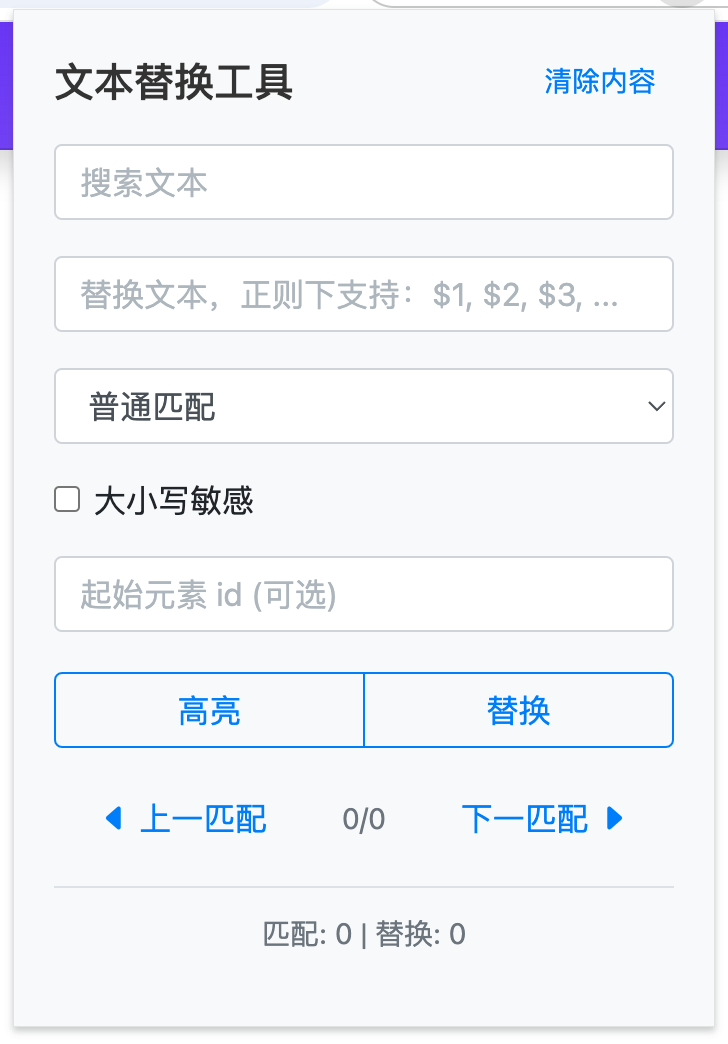
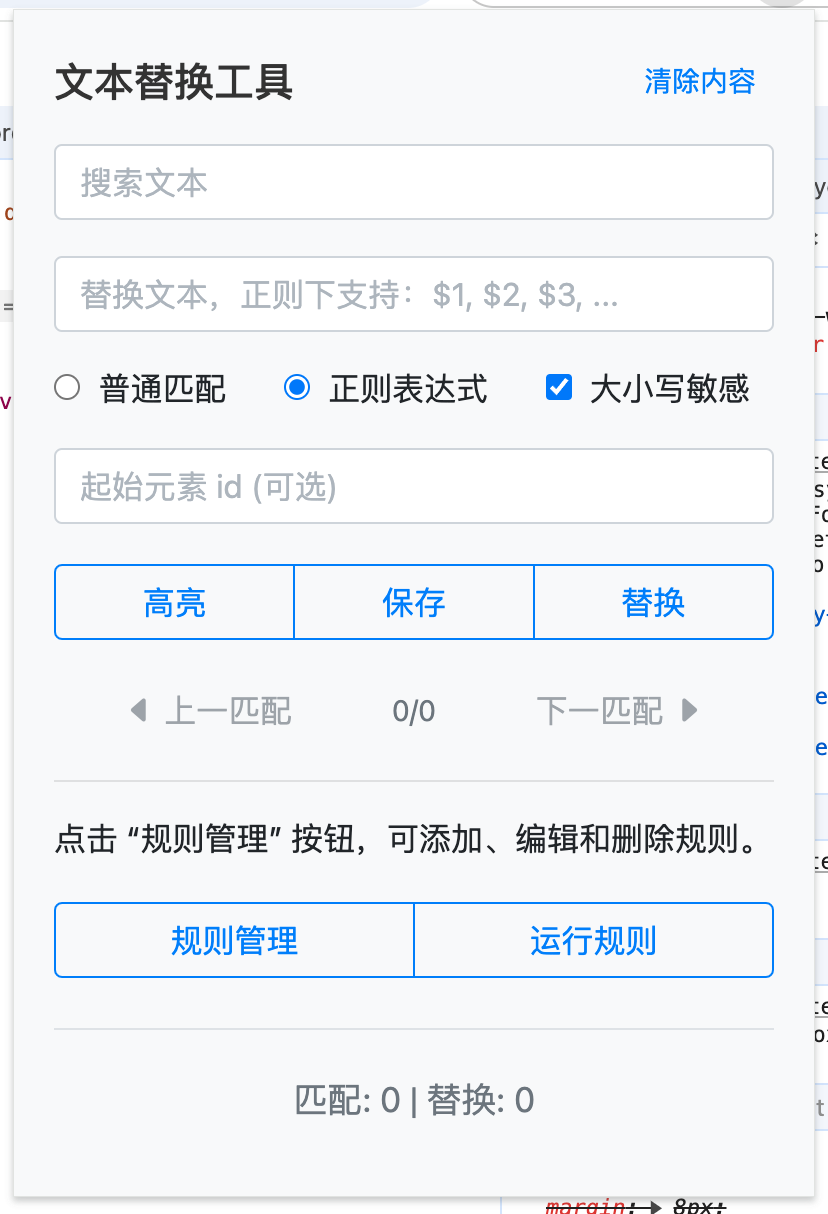
rule management interface is under development

diff --git a/popup/rules.html b/popup/rules.html
@@ -1,0 +1,70 @@
+<!DOCTYPE html>
+<html lang="zh-CN">
+    <head>
+        <meta charset="UTF-8" />
+        <meta name="viewport" content="width=device-width, initial-scale=1, shrink-to-fit=no" />
+        <title>文本替换扩展</title>
+        <link rel="stylesheet" href="bootstrap.min.css" />
+        <link rel="stylesheet" href="bootstrap-icons.min.css" />
+        <link rel="stylesheet" href="rules.css" />
+    </head>
+    <body>
+        <div class="container-fluid p-0">
+            <div class="py-5 text-center">
+                <img class="d-block mx-auto mb-4" src="/icons/icon128.png" alt="" width="128" height="128" />
+                <h2>文本替换规则管理</h2>
+                <div class="lead text-left">
+                    <p class="description-text">
+                        欢迎使用文本替换规则管理页面。它允许您创建、编辑和管理自定义的文本替换规则，
+                        以便在浏览网页时自动替换文本。无论是提高阅读效率、个性化内容还是纠正错误，都能满足您的需求。
+                    </p>
+                </div>
+            </div>
+            <div class="row" id="rulesOperation">
+                <div class="col-6 offset-6 d-flex justify-content-end">
+                    <button type="button" class="btn btn-link" id="clearSelectedRulesButton">
+                        <i class="bi bi-x-circle"></i>
+                        清除规则
+                    </button>
+                    <button type="button" class="btn btn-link" id="deleteSelectedRulesButton">
+                        <i class="bi bi-download"></i>
+                        导出规则
+                    </button>
+                    <button type="button" class="btn btn-link" id="importRulesButton">
+                        <i class="bi bi-upload"></i>
+                        导入规则
+                    </button>
+                </div>
+            </div>
+            <table class="table table-striped">
+                <thead class="thead-dark">
+                    <tr>
+                        <th scope="col" style="width: 4%">
+                            <input type="checkbox" id="selectAllCheckboxes" />
+                        </th>
+                        <th scope="col" style="width: 4%">#</th>
+                        <th scope="col" style="width: 26%">匹配</th>
+                        <th scope="col" style="width: 26%">替换</th>
+                        <th scope="col" style="width: 40%">操作</th>
+                    </tr>
+                </thead>
+                <tbody id="rulesTableBody">
+                    <!-- 动态生成的规则行将插入到这里 -->
+                    <tr>
+                        <td>
+                            <input type="checkbox" class="rule-checkbox" />
+                        </td>
+                        <th scope="row">1</th>
+                        <td>Mark</td>
+                        <td>Otto</td>
+                        <td>@mdo</td>
+                    </tr>
+                </tbody>
+            </table>
+        </div>
+
+        <script src="jquery-3.6.4.min.js"></script>
+        <script src="bootstrap.min.js"></script>
+        <script src="rules.js"></script>
+    </body>
+</html>

diff --git a/popup/popup.js b/popup/popup.js
@@ -5,11 +5,12 @@ const storage = chrome.storage && chrome.storage.local ? chrome.storage.local : 
 document.addEventListener("DOMContentLoaded", () => {
     // 为按钮添加事件监听器
     document.getElementById("highlightButton")?.addEventListener("click", handleHighlight);
-    document.getElementById("replaceButton")?.addEventListener("click", showConfirmModal);
+    document.getElementById("replaceButton")?.addEventListener("click", showReplaceConfirmModal);
     document.getElementById("clearButton")?.addEventListener("click", handleClear);
     document.getElementById("previousButton")?.addEventListener("click", handleNavPrevious);
     document.getElementById("nextButton")?.addEventListener("click", handleNavNext);
     document.getElementById("confirmReplace")?.addEventListener("click", handleConfirmedReplace);
+    document.getElementById("rolesManagementButton")?.addEventListener("click", openRulesManagementPage);
 
     // 初始化时禁用导航按钮并重置导航统计
     updateNavigationButtons(false);
@@ -19,15 +20,48 @@ document.addEventListener("DOMContentLoaded", () => {
     loadSavedContent();
 });
 
-// 添加这个新函数
-function showConfirmModal() {
+// 显示替换确认模态框
+function showReplaceConfirmModal() {
     $("#confirmModal").modal("show");
 }
 
-// 添加这个新函数
+// 处理确认替换，并隐藏模态框
 function handleConfirmedReplace() {
     $("#confirmModal").modal("hide");
     handleReplace();
+}
+
+// 打开规则管理页面
+function openRulesManagementPage() {
+    const rulesManagementPageUrl = chrome.runtime.getURL("popup/rules.html");
+    const tabName = "文本替换规则管理"; // 设置标签页的名称
+
+    // 查询所有标签页
+    chrome.tabs.query({}, function (tabs) {
+        // 查找是否存在匹配的标签页
+        const existingTab = tabs.find(tab => {
+            console.log(tab.url);
+            return tab.url && tab.url === rulesManagementPageUrl;
+        });
+
+        if (existingTab) {
+            // 如果标签页存在，跳转到该标签页
+            chrome.tabs.update(existingTab.id, { active: true });
+            chrome.windows.update(existingTab.windowId, { focused: true });
+        } else {
+            // 如果标签页不存在，创建新标签页
+            chrome.tabs.create({ url: rulesManagementPageUrl }, function (newTab) {
+                // 使用 chrome.tabs.onUpdated 监听器来设置标签页标题
+                function updateTabTitle(tabId, changeInfo, tab) {
+                    if (tabId === newTab.id && changeInfo.status === "complete") {
+                        chrome.tabs.sendMessage(tabId, { action: "setPageTitle", title: tabName });
+                        chrome.tabs.onUpdated.removeListener(updateTabTitle);
+                    }
+                }
+                chrome.tabs.onUpdated.addListener(updateTabTitle);
+            });
+        }
+    });
 }
 
 // 处理高亮功能

diff --git a/popup/popup.html b/popup/popup.html
@@ -86,10 +86,10 @@
                 </div>
             </form>
             <hr />
-            <div>点击 “策略管理” 按钮，可添加、编辑和删除策略。</div>
+            <div>点击 “规则管理” 按钮，可添加、编辑和删除规则。</div>
             <div class="btn-group d-flex mb-3" role="group">
-                <button type="button" class="btn btn-outline-primary" id="rolesManagementButton">策略管理</button>
-                <button type="button" class="btn btn-outline-primary" id="runRolesButton">运行策略</button>
+                <button type="button" class="btn btn-outline-primary" id="rolesManagementButton">规则管理</button>
+                <button type="button" class="btn btn-outline-primary" id="runRolesButton">运行规则</button>
             </div>
             <footer class="text-center">
                 <p id="stats">匹配: 0 | 替换: 0</p>

diff --git a/popup/rules.css b/popup/rules.css
@@ -1,0 +1,19 @@
+/* 全局样式 */
+body {
+    padding: 20px;
+    background-color: #f8f9fa;
+}
+
+.container-fluid {
+    max-width: 1024px;
+}
+
+.description-text {
+    text-align: left;
+    padding-top: 10px;
+}
+
+#rulesOperation {
+    padding-bottom: 25px;
+    text-align: center;
+}
